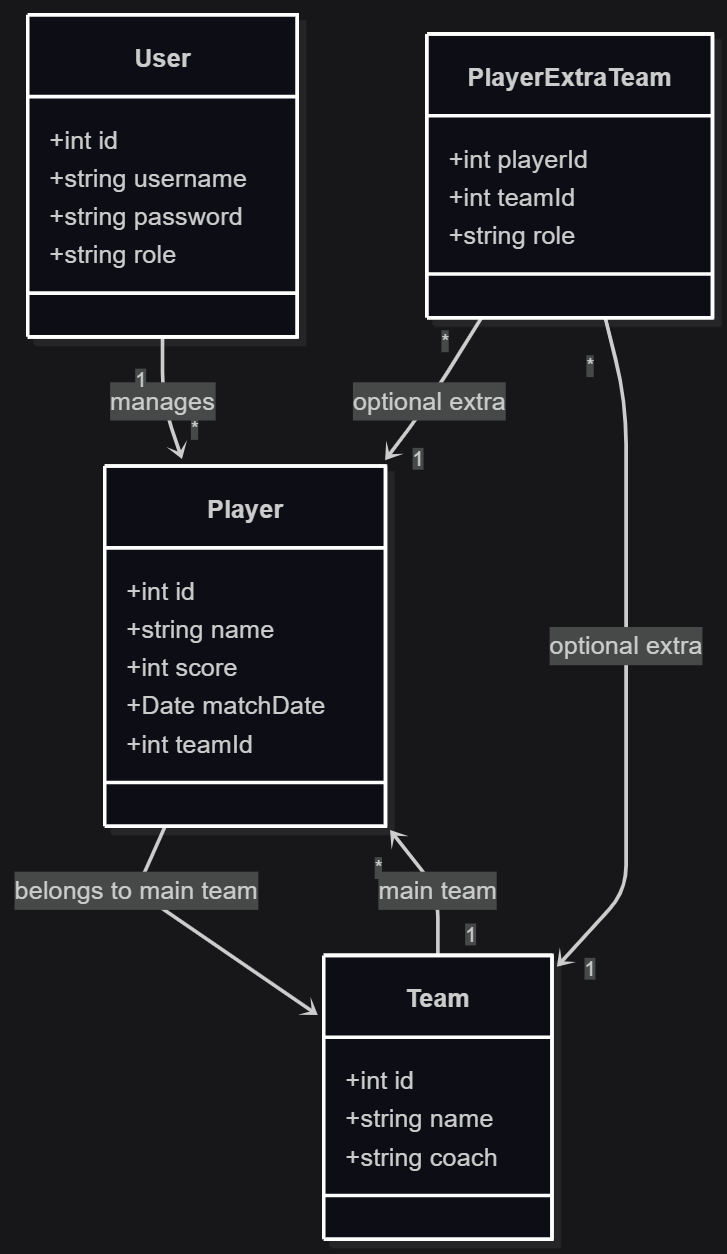
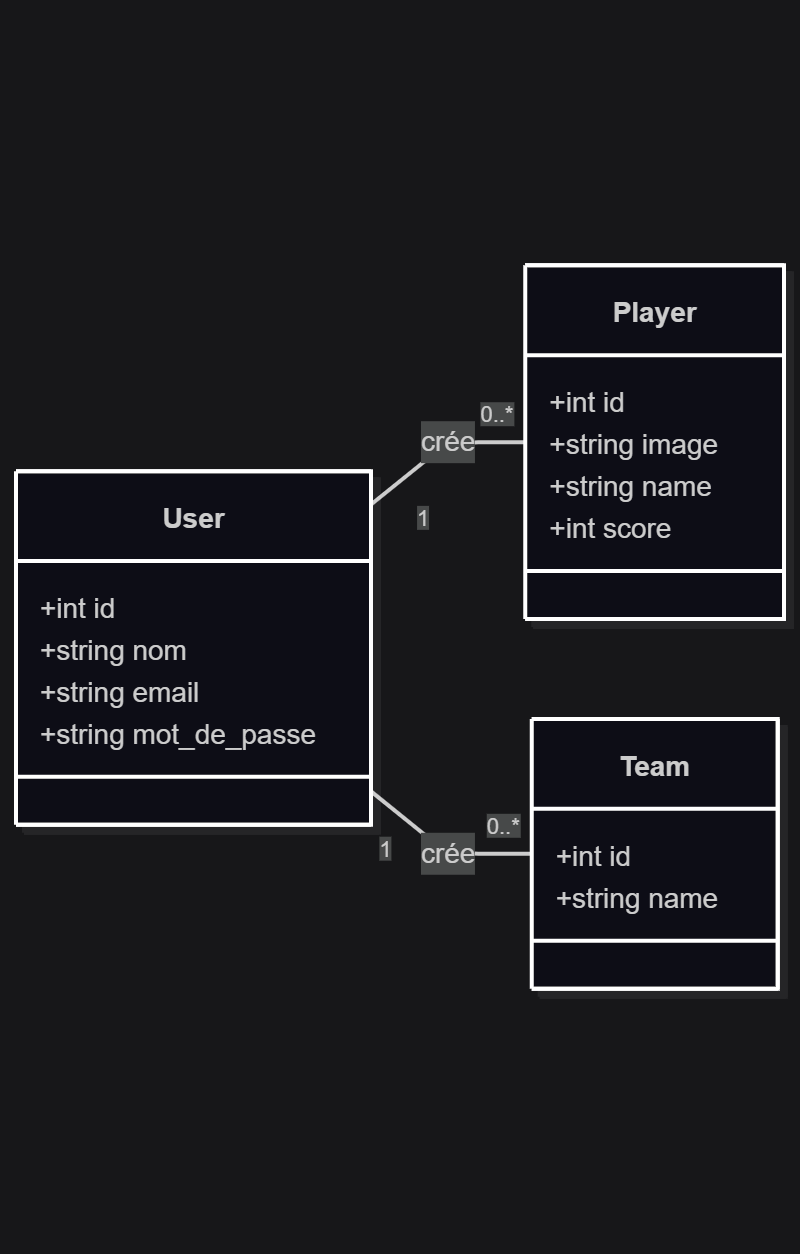
add waterfall

Changed region(s): [[0.0, 0.0, 0.9986, 0.9952], [0.6052, 0.0, 0.9684, 0.0933], [0.575, 0.0311, 0.6052, 0.2488]]

diff --git a/README.md b/README.md
@@ -21,29 +21,21 @@ Realisé par : **Mohamed Ouallou**<br>
 Encadré par : **M.ESSARAJ Fouad**
 
 ---
+## Methode waterfall (en cascade)
+
+<img src="./image/Waterfall.png" class="img-1">
+
+---
 
 ## Contexte – Player Score
 
-Le projet **Player Score** permet de centraliser les informations liées aux joueurs de suivre l’évolution de leurs performances.
+**Projet de Fin de Formation :** Travail sur le projet de fin de formation, commençant par la branche technique.
 
 <img src="./image/2tup.png" class="img-1">
 
 ---
 
-## Objectifs du projet
-
-- Comprendre la **conception générique** d’une application CRUD  
-- Séparer la **partie fonctionnelle** de la **réalisation technique**  
-- Mettre en pratique les opérations :
-  - Ajouter
-  - Lire
-  - Modifier
-  - Supprimer
-- Respecter une **méthodologie structurée (2TUP)**
-
----
-
-## Besoin – Analyse Technique
+## Exigences : Analyse Technique
 
 ### __Technologies a Utilisées__
 1. **Base de données** : MySQL.
@@ -61,7 +53,7 @@ Le projet **Player Score** permet de centraliser les informations liées aux jou
 12. **CSS** : Tailwind CSS.
 ---
 
-## Analyse Fonctionnelle
+## Analyse - Analyse fonctionnelle
 
 L’application est basée sur deux types d’acteurs :
 
@@ -72,9 +64,8 @@ L’application est basée sur deux types d’acteurs :
 
 ---
 
-## Conception
+## Conception : Diagram de Classes
 
---- 
 ![w:350 Class Diagram](./image/ClassDiagram.png)
 
 ---
@@ -83,80 +74,3 @@ L’application est basée sur deux types d’acteurs :
 
 * Un bouton “Ajouter” qui ouvre une modale pour créer un nouvel élément.
 * Une barre de recherche filtrant des éléments par joueur.
-
-
-
-
-
-
-
-
-
-
-
-
-
-
-
-
-
-
-
-
-
-
-
-
-
-
-
-
-
-
-
-
-
-
-
-
-
-
-
-
-
-
-
-
-<!-- 
-L’application est basée sur deux types d’acteurs :
-
-- **Utilisateur (Public)**
-- **Administrateur**
-
-Chaque acteur dispose de fonctionnalités spécifiques.
-
----
-
-## Acteur : Utilisateur (Public)
-
-L’utilisateur public peut :
-
-- Consulter la liste des joueurs
-- Voir le score de chaque joueur
-- Rechercher un joueur par :
-  - Nom
-  - Équipe
-- Consulter les scores avec **pagination**
-
----
-
-## Acteur : Administrateur (Admin)
-
-L’administrateur peut :
-
-- Ajouter un nouveau joueur
-- Modifier les informations d’un joueur
-- Supprimer un joueur
-- Consulter la liste complète des joueurs
-- Rechercher un joueur
-- Gérer l’affichage avec **pagination** -->
